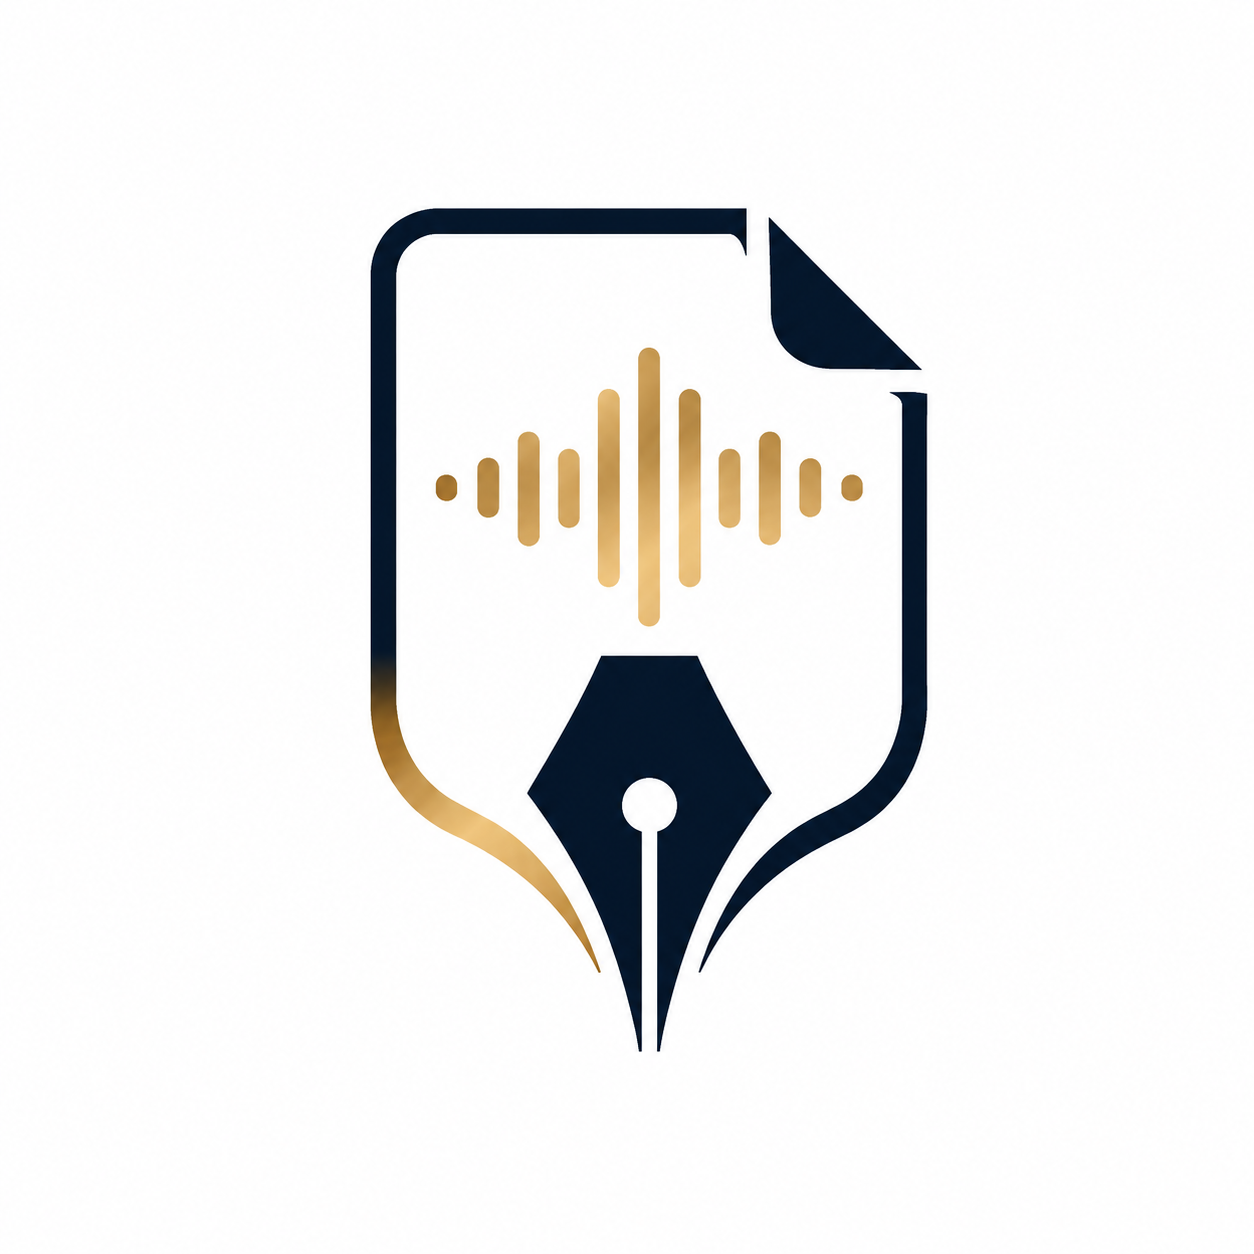
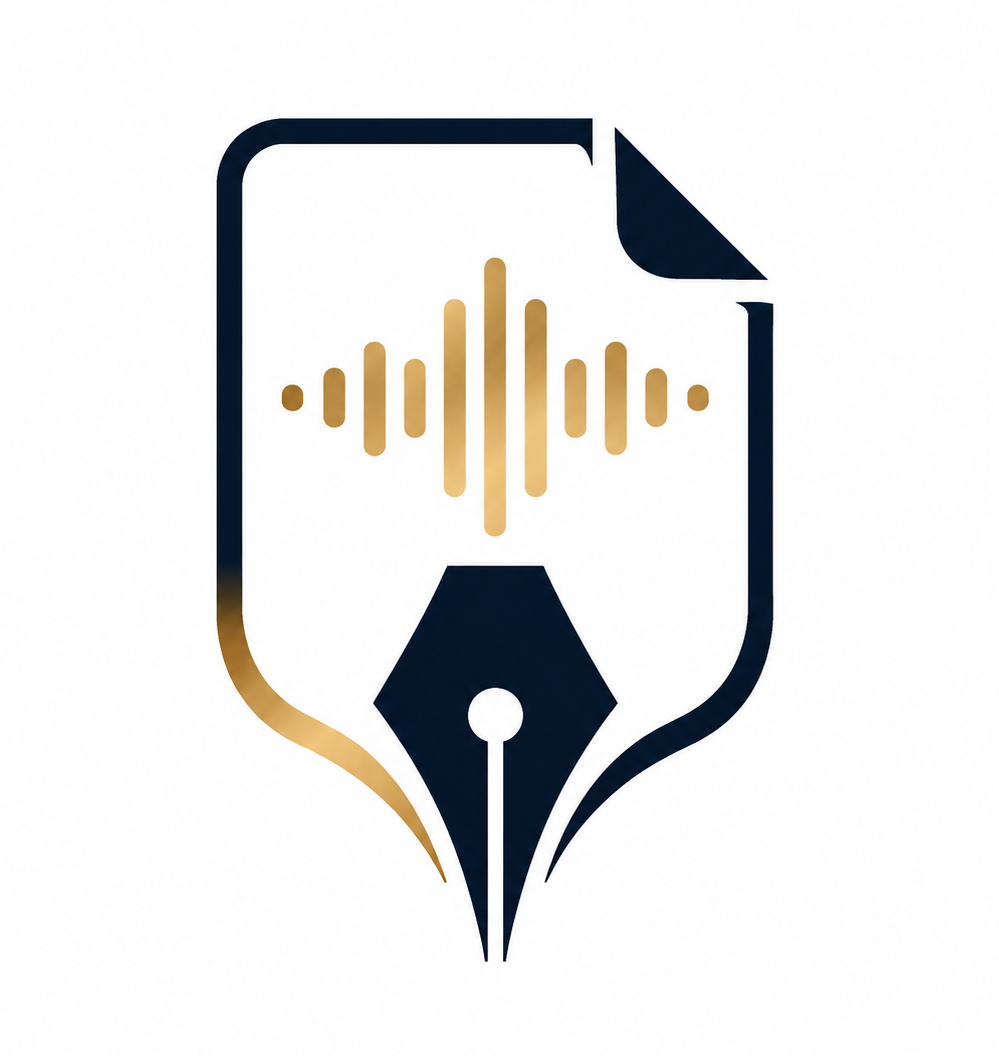
abrir cerrar subcarpetas

Changed region(s): [[0.2172, 0.0938, 0.7758, 0.9062]]

diff --git a/resources/js/Pages/Dashboard.vue b/resources/js/Pages/Dashboard.vue
@@ -51,6 +51,49 @@ const props = defineProps({
 const creatingFolderFor = ref(undefined);
 const folderNameInput = ref(null);
 
+// --- Árbol de carpetas: expandir/colapsar subcarpetas en el panel izquierdo ---
+const expandedFolders = ref(new Set());
+
+const isExpanded = (id) => expandedFolders.value.has(id);
+
+const toggleFolder = (id) => {
+    const next = new Set(expandedFolders.value);
+    if (next.has(id)) {
+        next.delete(id);
+    } else {
+        next.add(id);
+    }
+    expandedFolders.value = next;
+};
+
+const expandFolder = (id) => {
+    if (id == null || expandedFolders.value.has(id)) return;
+    const next = new Set(expandedFolders.value);
+    next.add(id);
+    expandedFolders.value = next;
+};
+
+// Abre la rama que contiene a la carpeta activa para que siempre quede visible.
+const revealActiveFolder = () => {
+    const activeId = props.activeFolderId;
+    if (activeId == null) return;
+    for (const folder of props.folders) {
+        if (folder.id === activeId) {
+            expandFolder(folder.id);
+            return;
+        }
+        for (const child of folder.children || []) {
+            if (child.id === activeId) {
+                expandFolder(folder.id);
+                return;
+            }
+        }
+    }
+};
+
+revealActiveFolder();
+watch(() => props.activeFolderId, revealActiveFolder);
+
 const LAST_MODEL_KEY = 'escribelo_last_model';
 const LAST_LANGUAGE_KEY = 'escribelo_last_language';
 
@@ -186,6 +229,7 @@ const folderForm = useForm({
 
 const startCreatingFolder = async (parentId = null) => {
     creatingFolderFor.value = parentId;
+    if (parentId != null) expandFolder(parentId); // abrir la rama para ver el nuevo tema
     folderForm.reset();
     folderForm.parent_id = parentId;
     folderForm.clearErrors();
@@ -837,10 +881,32 @@ const formatDate = (value) => {
                                     @dragleave="onFolderDragLeave(folder.id)"
                                     @drop="onFolderDrop($event, folder.id)"
                                 >
+                                    <button
+                                        v-if="folder.children?.length"
+                                        type="button"
+                                        class="ml-1 flex h-5 w-5 shrink-0 items-center justify-center rounded text-gray-400 transition hover:bg-gray-200 hover:text-gray-700 dark:hover:bg-gray-600 dark:hover:text-gray-100"
+                                        :aria-expanded="isExpanded(folder.id)"
+                                        :title="isExpanded(folder.id) ? 'Cerrar subcarpetas' : 'Abrir subcarpetas'"
+                                        @click.stop="toggleFolder(folder.id)"
+                                    >
+                                        <svg
+                                            xmlns="http://www.w3.org/2000/svg"
+                                            class="h-3.5 w-3.5 transition-transform"
+                                            :class="{ 'rotate-90': isExpanded(folder.id) }"
+                                            fill="none"
+                                            viewBox="0 0 24 24"
+                                            stroke="currentColor"
+                                            stroke-width="2.5"
+                                        >
+                                            <path stroke-linecap="round" stroke-linejoin="round" d="M9 5l7 7-7 7" />
+                                        </svg>
+                                    </button>
+                                    <span v-else class="ml-1 w-5 shrink-0" aria-hidden="true"></span>
                                     <Link
                                         :href="route('dashboard', { folder: folder.id })"
-                                        class="flex flex-1 items-center gap-2 truncate px-2 py-2"
+                                        class="flex flex-1 items-center gap-2 truncate py-2 pl-1 pr-2"
                                         :title="folder.name"
+                                        @click="expandFolder(folder.id)"
                                     >
                                         <span aria-hidden="true">📁</span>
                                         <span class="truncate">{{ folder.name }}</span>
@@ -908,27 +974,29 @@ const formatDate = (value) => {
                                         </button>
                                     </div>
                                 </form>
-                                <div
-                                    v-for="child in folder.children"
-                                    :key="child.id"
-                                    class="ml-4 flex items-center justify-between border-l-2 border-gray-100 text-sm transition dark:border-gray-800"
-                                    :class="[
-                                        activeFolderId === child.id ? 'bg-gray-100 font-semibold text-gray-900 dark:bg-gray-700 dark:text-gray-100' : 'text-gray-600 hover:bg-gray-50 dark:text-gray-400 dark:hover:bg-gray-700',
-                                        { '!border-blue-400 ring-2 ring-blue-400 bg-blue-100 dark:bg-blue-900/40': dragOverFolderId === child.id },
-                                    ]"
-                                    @dragover="onFolderDragOver($event, child.id)"
-                                    @dragleave="onFolderDragLeave(child.id)"
-                                    @drop="onFolderDrop($event, child.id)"
-                                >
-                                    <Link
-                                        :href="route('dashboard', { folder: child.id })"
-                                        class="flex flex-1 items-center gap-1 truncate px-2 py-1.5"
-                                        :title="child.name"
+                                <template v-if="isExpanded(folder.id)">
+                                    <div
+                                        v-for="child in folder.children"
+                                        :key="child.id"
+                                        class="ml-4 flex items-center justify-between border-l-2 border-gray-100 text-sm transition dark:border-gray-800"
+                                        :class="[
+                                            activeFolderId === child.id ? 'bg-gray-100 font-semibold text-gray-900 dark:bg-gray-700 dark:text-gray-100' : 'text-gray-600 hover:bg-gray-50 dark:text-gray-400 dark:hover:bg-gray-700',
+                                            { '!border-blue-400 ring-2 ring-blue-400 bg-blue-100 dark:bg-blue-900/40': dragOverFolderId === child.id },
+                                        ]"
+                                        @dragover="onFolderDragOver($event, child.id)"
+                                        @dragleave="onFolderDragLeave(child.id)"
+                                        @drop="onFolderDrop($event, child.id)"
                                     >
-                                        <span class="truncate">↳ {{ child.name }}</span>
-                                    </Link>
-                                    <span class="pr-2 text-xs text-gray-400 dark:text-gray-500">{{ child.files_count }}</span>
-                                </div>
+                                        <Link
+                                            :href="route('dashboard', { folder: child.id })"
+                                            class="flex flex-1 items-center gap-1 truncate px-2 py-1.5"
+                                            :title="child.name"
+                                        >
+                                            <span class="truncate">↳ {{ child.name }}</span>
+                                        </Link>
+                                        <span class="pr-2 text-xs text-gray-400 dark:text-gray-500">{{ child.files_count }}</span>
+                                    </div>
+                                </template>
                             </template>
                         </div>
                     </section>

diff --git a/resources/js/Components/ApplicationLogo.vue b/resources/js/Components/ApplicationLogo.vue
@@ -1,21 +1,38 @@
+<script setup>
+// Dos versiones del logo: una para modo claro y otra para modo oscuro.
+// Se muestran/ocultan por CSS según la clase `dark` en <html>.
+// inheritAttrs:false + v-bind="$attrs" hace que las clases de tamaño que pasa
+// el componente padre (ej. h-20 w-auto) se apliquen a AMBAS imágenes.
+defineOptions({ inheritAttrs: false });
+</script>
+
 <template>
-    <img src="/images/logo.png" alt="Escríbelo" class="app-logo" />
+    <img
+        v-bind="$attrs"
+        src="/images/logo.png"
+        alt="Escríbelo"
+        class="app-logo app-logo--light"
+    />
+    <img
+        v-bind="$attrs"
+        src="/images/logo-oscuro.png"
+        alt="Escríbelo"
+        class="app-logo app-logo--dark"
+    />
 </template>
 
 <style>
-/* En modo oscuro suavizamos los bordes del logo con una máscara radial que se
- * desvanece a transparente. El recorte abrupto entre el blanco del PNG y el
- * gris oscuro del navbar deja de notarse. En modo claro la máscara no se aplica. */
-html.dark .app-logo {
-    -webkit-mask-image:
-        linear-gradient(to right, transparent 0%, black 7%, black 93%, transparent 100%),
-        linear-gradient(to bottom, transparent 0%, black 10%, black 90%, transparent 100%);
-    mask-image:
-        linear-gradient(to right, transparent 0%, black 7%, black 93%, transparent 100%),
-        linear-gradient(to bottom, transparent 0%, black 10%, black 90%, transparent 100%);
-    -webkit-mask-composite: source-in;
-    mask-composite: intersect;
-    -webkit-mask-repeat: no-repeat;
-    mask-repeat: no-repeat;
+/* Modo claro (por defecto): se ve el logo claro, se oculta el oscuro. */
+.app-logo--dark {
+    display: none;
+}
+
+/* Modo oscuro: se invierten. */
+html.dark .app-logo--light {
+    display: none;
+}
+
+html.dark .app-logo--dark {
+    display: initial;
 }
 </style>

diff --git a/resources/js/Pages/Auth/Register.vue b/resources/js/Pages/Auth/Register.vue
@@ -22,7 +22,7 @@ const submit = () => {
 
 <template>
     <GuestLayout>
-        <Head title="Register" />
+        <Head title="Crear cuenta" />
 
         <a
             :href="route('auth.google.redirect')"
@@ -45,7 +45,7 @@ const submit = () => {
 
         <form @submit.prevent="submit">
             <div>
-                <InputLabel for="name" value="Name" />
+                <InputLabel for="name" value="Nombre" />
 
                 <TextInput
                     id="name"
@@ -76,7 +76,7 @@ const submit = () => {
             </div>
 
             <div class="mt-4">
-                <InputLabel for="password" value="Password" />
+                <InputLabel for="password" value="Contraseña" />
 
                 <TextInput
                     id="password"
@@ -93,7 +93,7 @@ const submit = () => {
             <div class="mt-4">
                 <InputLabel
                     for="password_confirmation"
-                    value="Confirm Password"
+                    value="Confirmar contraseña"
                 />
 
                 <TextInput
@@ -116,7 +116,7 @@ const submit = () => {
                     :href="route('login')"
                     class="rounded-md text-sm text-gray-600 underline hover:text-gray-900 focus:outline-none focus:ring-2 focus:ring-indigo-500 focus:ring-offset-2 dark:text-gray-400 dark:hover:text-gray-100 dark:focus:ring-offset-gray-800"
                 >
-                    Already registered?
+                    ¿Ya tenés una cuenta?
                 </Link>
 
                 <PrimaryButton
@@ -124,7 +124,7 @@ const submit = () => {
                     :class="{ 'opacity-25': form.processing }"
                     :disabled="form.processing"
                 >
-                    Register
+                    Crear cuenta
                 </PrimaryButton>
             </div>
         </form>

diff --git a/resources/js/Pages/Auth/Login.vue b/resources/js/Pages/Auth/Login.vue
@@ -31,7 +31,7 @@ const submit = () => {
 
 <template>
     <GuestLayout>
-        <Head title="Log in" />
+        <Head title="Iniciar sesión" />
 
         <div v-if="status" class="mb-4 text-sm font-medium text-green-600 dark:text-green-400">
             {{ status }}
@@ -74,7 +74,7 @@ const submit = () => {
             </div>
 
             <div class="mt-4">
-                <InputLabel for="password" value="Password" />
+                <InputLabel for="password" value="Contraseña" />
 
                 <TextInput
                     id="password"
@@ -92,7 +92,7 @@ const submit = () => {
                 <label class="flex items-center">
                     <Checkbox name="remember" v-model:checked="form.remember" />
                     <span class="ms-2 text-sm text-gray-600 dark:text-gray-400"
-                        >Remember me</span
+                        >Recordarme</span
                     >
                 </label>
             </div>
@@ -103,7 +103,7 @@ const submit = () => {
                     :href="route('password.request')"
                     class="rounded-md text-sm text-gray-600 underline hover:text-gray-900 focus:outline-none focus:ring-2 focus:ring-indigo-500 focus:ring-offset-2 dark:text-gray-400 dark:hover:text-gray-100 dark:focus:ring-offset-gray-800"
                 >
-                    Forgot your password?
+                    ¿Olvidaste tu contraseña?
                 </Link>
 
                 <PrimaryButton
@@ -111,7 +111,7 @@ const submit = () => {
                     :class="{ 'opacity-25': form.processing }"
                     :disabled="form.processing"
                 >
-                    Log in
+                    Iniciar sesión
                 </PrimaryButton>
             </div>
         </form>

diff --git a/resources/js/Pages/Auth/ForgotPassword.vue b/resources/js/Pages/Auth/ForgotPassword.vue
@@ -23,12 +23,11 @@ const submit = () => {
 
 <template>
     <GuestLayout>
-        <Head title="Forgot Password" />
+        <Head title="Recuperar contraseña" />
 
         <div class="mb-4 text-sm text-gray-600 dark:text-gray-400">
-            Forgot your password? No problem. Just let us know your email
-            address and we will email you a password reset link that will allow
-            you to choose a new one.
+            ¿Olvidaste tu contraseña? No hay problema. Indicanos tu email y te
+            enviaremos un enlace para restablecerla y elegir una nueva.
         </div>
 
         <div
@@ -60,7 +59,7 @@ const submit = () => {
                     :class="{ 'opacity-25': form.processing }"
                     :disabled="form.processing"
                 >
-                    Email Password Reset Link
+                    Enviar enlace de recuperación
                 </PrimaryButton>
             </div>
         </form>

diff --git a/resources/js/Pages/Auth/ResetPassword.vue b/resources/js/Pages/Auth/ResetPassword.vue
@@ -33,7 +33,7 @@ const submit = () => {
 
 <template>
     <GuestLayout>
-        <Head title="Reset Password" />
+        <Head title="Restablecer contraseña" />
 
         <form @submit.prevent="submit">
             <div>
@@ -53,7 +53,7 @@ const submit = () => {
             </div>
 
             <div class="mt-4">
-                <InputLabel for="password" value="Password" />
+                <InputLabel for="password" value="Contraseña" />
 
                 <TextInput
                     id="password"
@@ -70,7 +70,7 @@ const submit = () => {
             <div class="mt-4">
                 <InputLabel
                     for="password_confirmation"
-                    value="Confirm Password"
+                    value="Confirmar contraseña"
                 />
 
                 <TextInput
@@ -93,7 +93,7 @@ const submit = () => {
                     :class="{ 'opacity-25': form.processing }"
                     :disabled="form.processing"
                 >
-                    Reset Password
+                    Restablecer contraseña
                 </PrimaryButton>
             </div>
         </form>

diff --git a/resources/views/app.blade.php b/resources/views/app.blade.php
@@ -9,8 +9,7 @@
 
         <title inertia>{{ config('app.name', 'Laravel') }}</title>
 
-        <link rel="icon" type="image/x-icon" href="/images/logoicono.ico">
-        <link rel="icon" type="image/png" href="/images/logoicono.png">
+        <link rel="icon" type="image/x-icon" href="/images/icono-escribelo.ico?v=2">
 
         <!-- Fonts -->
         <link rel="preconnect" href="https://fonts.bunny.net">